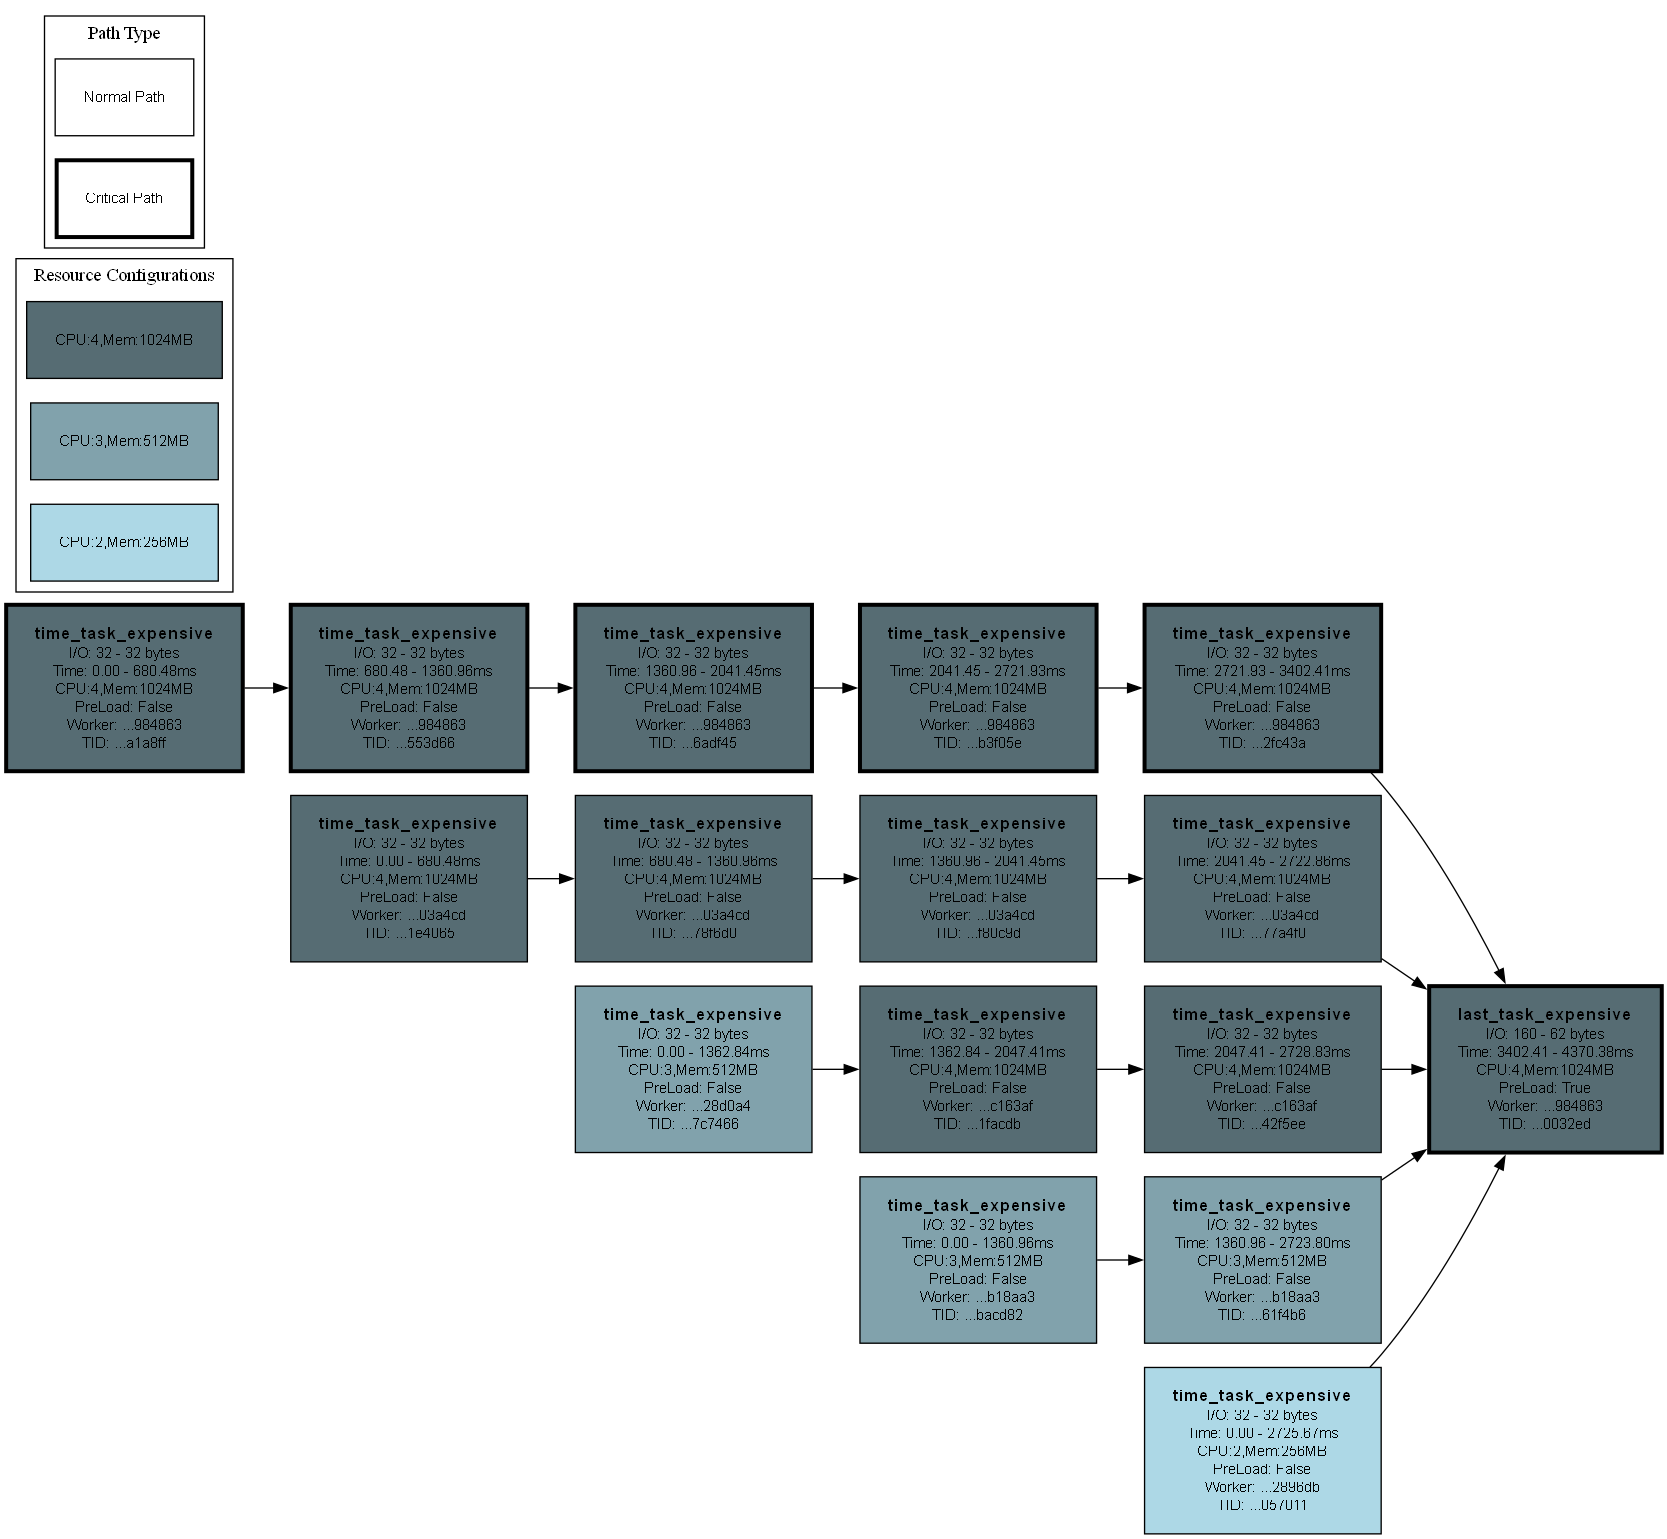
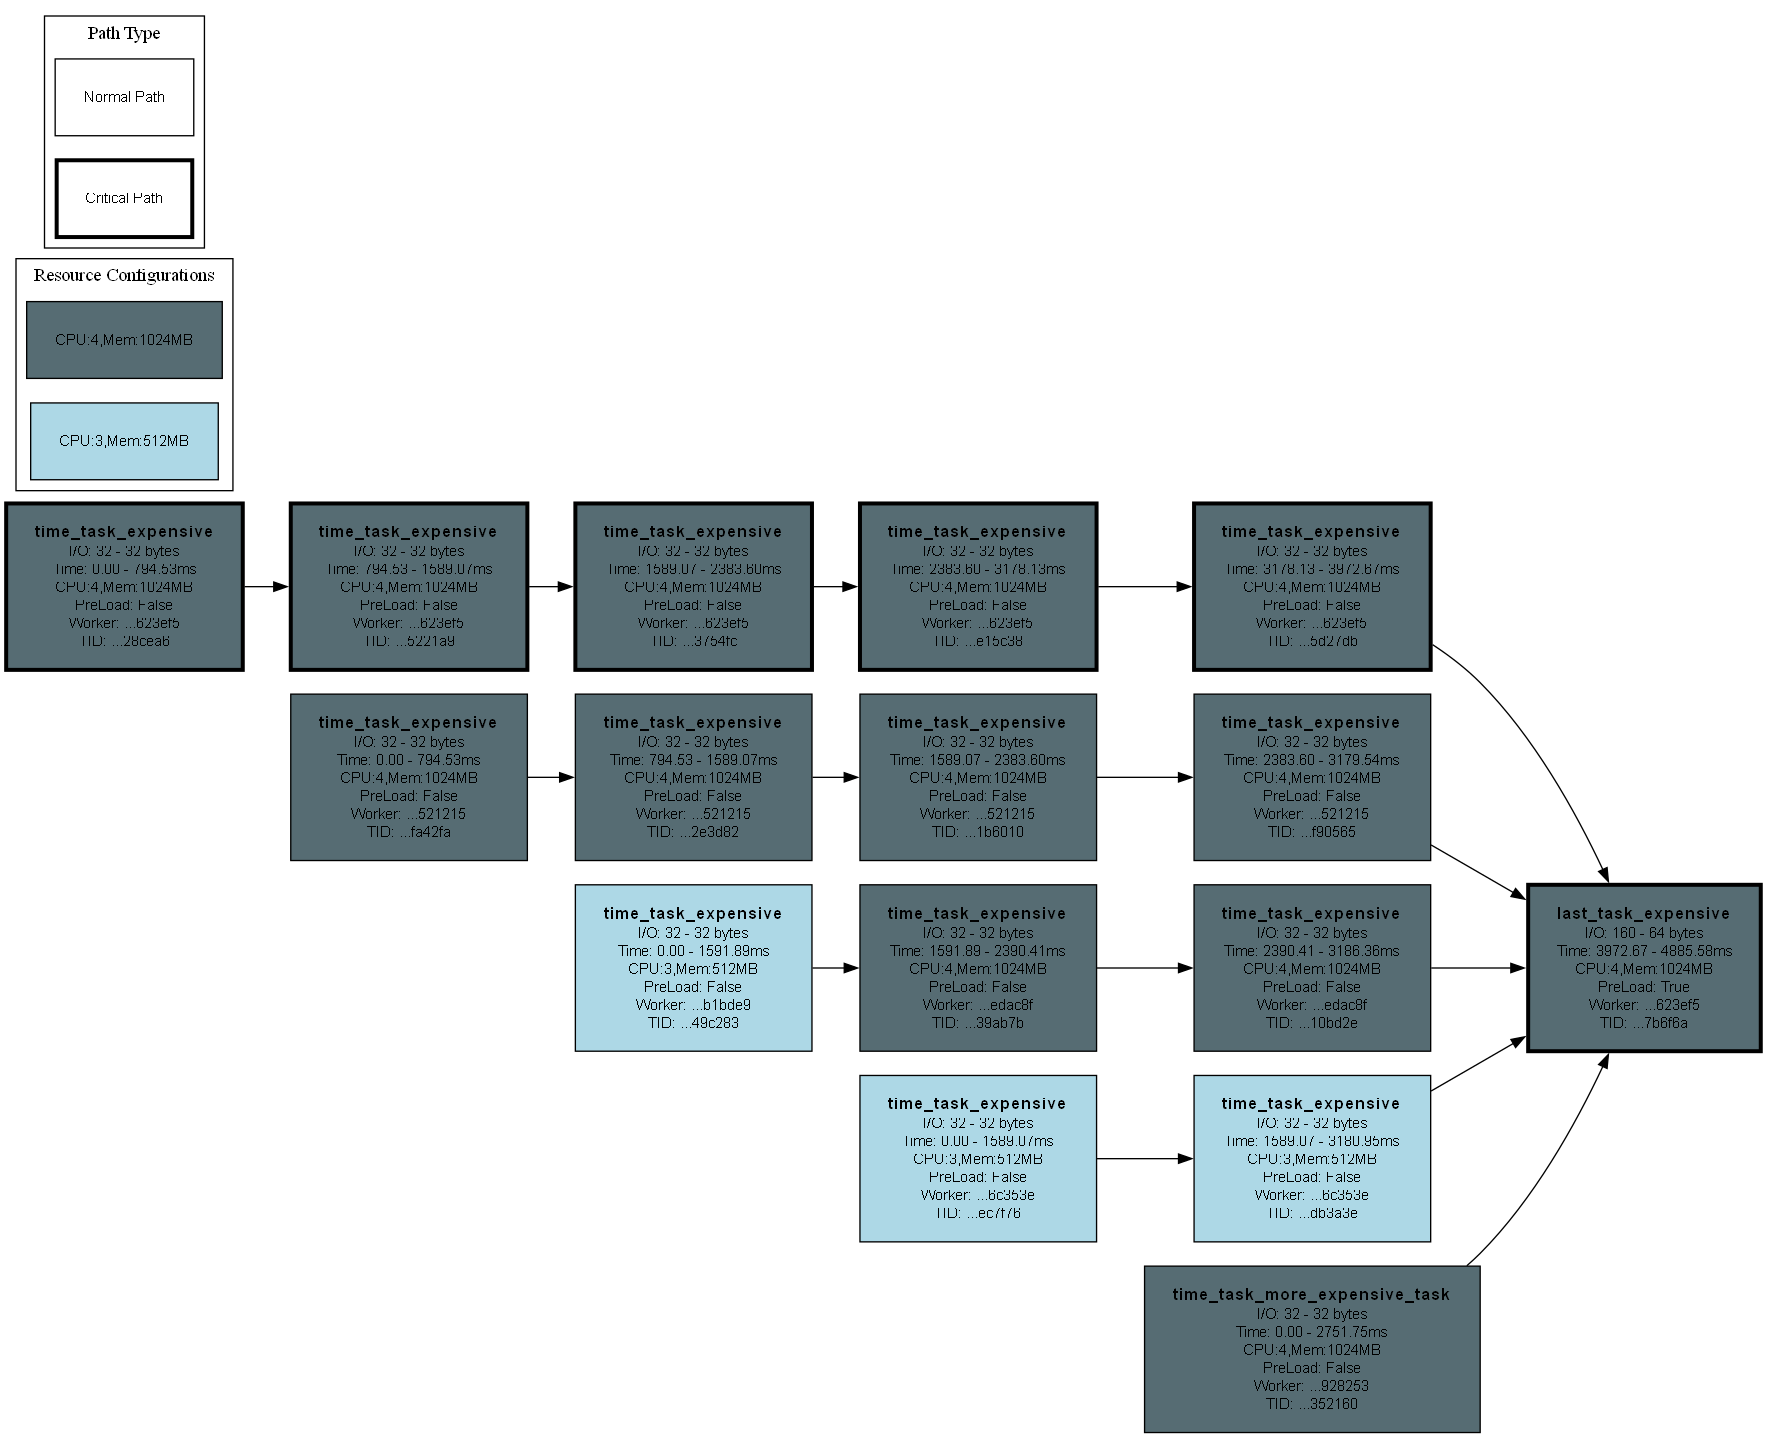
Now container logs are received by docker gateway in realtime. This way we can capture logs from containers that wait forever

Changed region(s): [[0.0, 0.0, 1.0, 1.0]]

diff --git a/src/docker_workers_gateway/container_pool_executor.py b/src/docker_workers_gateway/container_pool_executor.py
@@ -1,4 +1,5 @@
 from contextlib import contextmanager
+import os
 import sys
 import threading
 from dataclasses import dataclass
@@ -40,30 +41,85 @@ class ContainerPoolExecutor:
     def execute_command_in_container(self, container_id, command):
         """
         Executes a command in the specified container and returns the exit code.
-        Prints the exit code, stdout, and stderr of the command execution.
+        Streams stdout and stderr in real-time during execution, then prints the final exit code.
         """
         with self.lock:
             self.containers[container_id].last_active_time = time.time()
             self.containers[container_id].is_busy = True
         
-        logger.info(f"[{self._get_time_formatted()}] EXECUTING IN CONTAINER: {container_id} | command length: {len(command)}") 
+        logger.info(f"[{self._get_time_formatted()}] EXECUTING IN CONTAINER: {container_id} | command length: {len(command)}")
 
-        result = subprocess.run(
+        # Use Popen instead of run to get real-time output
+        process = subprocess.Popen(
             ["docker", "exec", "-i", container_id, "sh"],
-            input=command.encode(),
+            stdin=subprocess.PIPE,
             stdout=subprocess.PIPE,
             stderr=subprocess.PIPE,
+            bufsize=1,  # Line buffered
+            universal_newlines=False  # Keep as binary for consistent handling
         )
+        
+        # Send the command to stdin
+        if process.stdin:
+            process.stdin.write(command.encode())
+            process.stdin.close()
+        
+        # Set up non-blocking reading for stdout and stderr
+        if process.stdout: process.stdout.fileno()
+        if process.stderr: process.stderr.fileno()
+        
+        # Make stdout and stderr non-blocking
+        if process.stdout: os.set_blocking(process.stdout.fileno(), False)
+        if process.stderr: os.set_blocking(process.stderr.fileno(), False)
+        
+        # Read and print output streams while process is running
+        print("STDOUT (streaming):")
+        
+        exit_code = None
+        while exit_code is None:
+            # Read from stdout
+            if process.stdout:
+                stdout_data = process.stdout.read(4096)
+                if stdout_data:
+                    stdout_text = stdout_data.decode(errors='replace')
+                    print(stdout_text, end='', flush=True)
+            
+            # Read from stderr
+            if process.stderr:
+                stderr_data = process.stderr.read(4096)
+                if stderr_data:
+                    stderr_text = stderr_data.decode(errors='replace')
+                    logger.error(f"STDERR: {stderr_text}")
+            
+            # Check if process has finished
+            exit_code = process.poll()
+            if exit_code is None:
+                # Process still running, small sleep to avoid CPU spinning
+                time.sleep(0.1)
+        
+        # After process completion, read any remaining output
+        if process.stdout:
+            remaining_stdout = process.stdout.read()
+            if remaining_stdout:
+                print(remaining_stdout.decode(errors='replace'), end='', flush=True)
+        
+        if process.stderr:
+            remaining_stderr = process.stderr.read()
+            if remaining_stderr:
+                logger.error(f"STDERR: {remaining_stderr.decode(errors='replace')}")
+        
+        print(f"\nExit Code: {exit_code}")
+        
+        # Update container state
         with self.lock:
-            self.containers[container_id].is_busy = False
-        print(f"Exit Code: {result.returncode}")
-        print("STDOUT:")
-        print(result.stdout.decode().strip() if result.stdout else "(No output)")
-        if result.stderr:
-            logger.error("STDERR:")
-            logger.error(result.stderr.decode().strip())
-            sys.exit(0)
-        return result.returncode
+            if container_id in self.containers:
+                self.containers[container_id].is_busy = False
+        
+        # Keep the original behavior of exiting on stderr
+        if process.stderr and process.stderr.read():
+            sys.exit(0) # ! for easier debugging
+            
+        return exit_code
 
     def shutdown(self):
         logger.info("Shutting down container pool manager...")

diff --git a/src/docker_worker_handler/worker.py b/src/docker_worker_handler/worker.py
@@ -82,9 +82,11 @@ async def main():
         
         #* 1) Execute override_on_worker_ready
         on_worker_ready_overriden = get_method_overridden(wk.planner.__class__, WorkerExecutionLogic.override_on_worker_ready)
-        if on_worker_ready_overriden: 
+        if on_worker_ready_overriden:
+            logger.info(f"PLANNER.ON_WORKER_READY()")
             await on_worker_ready_overriden(wk.intermediate_storage, fulldag, this_worker_id)
-        else: 
+        else:
+            logger.info(f"WEL.ON_WORKER_READY()")
             await WorkerExecutionLogic.override_on_worker_ready(wk.intermediate_storage, fulldag, this_worker_id)
 
         #* 2) Subscribe to {TASK_READY} events for MY tasks*
@@ -122,13 +124,16 @@ async def main():
         remaining_tasks_for_this_worker = [task for task in tasks_that_depend_on_other_workers if not task.completed_event.is_set()]
         if len(remaining_tasks_for_this_worker) > 0:
             completion_events = [task.completed_event for task in remaining_tasks_for_this_worker]
-            logger.info(f"Worker: {this_worker_id} | Waiting for {[task.id.get_full_id() for task in remaining_tasks_for_this_worker]} to complete locally...")
+            logger.info(f"Worker({this_worker_id}) Waiting for {[task.id.get_full_id() for task in remaining_tasks_for_this_worker]} to complete locally...")
             await asyncio.wait([asyncio.create_task(event.wait()) for event in completion_events])
+            logger.info(f"Worker({this_worker_id}) DONE Waiting for {[task.id.get_full_id() for task in remaining_tasks_for_this_worker]} to complete locally")
 
         #* 5) Wait for remaining coroutines to finish. 
         # *     REASON: Just because the final result is ready doesn't mean all work is done (emitting READY events, etc...)
+        logger.info(f"Worker({this_worker_id}) Waiting for all coroutines...")
         pending = [t for t in asyncio.all_tasks() if t is not asyncio.current_task()]
         if pending: await asyncio.wait(pending, timeout=None)  # Wait indefinitely
+        logger.info(f"Worker({this_worker_id}) DONE Waiting for all coroutines!")
 
         #* 6) Upload metrics collected during task execution
         if wk.metrics_storage:

diff --git a/src/planning/simple_planner.py b/src/planning/simple_planner.py
@@ -171,7 +171,7 @@ class SimpleDAGPlanner(DAGPlanner, WorkerExecutionLogic):
             unique_worker_ids[resource_config.worker_id] += 1
 
         logger.info(f"CRITICAL PATH | Nodes: {len(critical_path_nodes)} | Predicted Completion Time: {critical_path_time} ms")
-        logger.info(f"Resource distribution after optimization: {resource_distribution}")
+        logger.info(f"Task Resource distribution after optimization: {resource_distribution}")
         logger.info(f"Number of unique workers: {len(unique_worker_ids)}")
         logger.info(f"Completed in {algorithm_start_time.stop():.3f} ms")
 
@@ -210,7 +210,7 @@ class SimpleDAGPlanner(DAGPlanner, WorkerExecutionLogic):
             visited_nodes.add(current_node.id.get_full_id())
             for downstream_node in current_node.downstream_nodes:
                 if downstream_node.id.get_full_id() not in visited_nodes: _nodes_to_visit.append(downstream_node)
-            # My Logic
+            # MY Logic
             if current_node.get_annotation(TaskWorkerResourceConfiguration).worker_id != this_worker_id: continue
             preload_annotation = current_node.try_get_annotation(PreLoad)
             if not preload_annotation: continue

diff --git a/_examples/original/dagforpredictions_expensive_computations.py b/_examples/original/dagforpredictions_expensive_computations.py
@@ -48,6 +48,15 @@ def time_task_expensive(dummy_data: int) -> int:
     return dummy_data + int(result[0, 0] % 100)  # Just use a small part of the result
 
 @DAGTask
+def time_task_more_expensive_task(dummy_data: int) -> int:
+    # memory-sensitive computation
+    size = 3500
+    a = np.random.rand(size, size)
+    b = np.random.rand(size, size)
+    result = np.matmul(a, b)
+    return dummy_data + int(result[0, 0] % 100)  # Just use a small part of the result
+
+@DAGTask
 def last_task_expensive(dummy_data_1: int, dummy_data_2: int, dummy_data_3: int, 
                        dummy_data_4: int, dummy_data_5: int) -> str:
     # memory-sensitive computation
@@ -82,7 +91,7 @@ b3_t3 = time_task_expensive(b3_t2)
 b4_t1 = time_task_expensive(40)
 b4_t2 = time_task_expensive(b4_t1)
 
-b5_t1 = time_task_expensive(50)
+b5_t1 = time_task_more_expensive_task(50)
 
 sink_task = last_task_expensive(b1_t5, b2_t4, b3_t3, b4_t2, b5_t1)
 # sink_task.visualize_dag(open_after=True)

diff --git a/src/docker_workers_gateway/handler.py b/src/docker_workers_gateway/handler.py
@@ -45,10 +45,7 @@ def process_job_async(resource_configuration: TaskWorkerResourceConfiguration, b
     container_id = container_pool.wait_for_container(cpus=resource_configuration.cpus, memory=resource_configuration.memory_mb)
     try:
         exit_code = container_pool.execute_command_in_container(container_id, command)
-        if exit_code == 0:
-            # print(f"[{get_time_formatted()}] {job_id}) COMPLETED in container: {container_id}")
-            return
-        else:
+        if exit_code != 0:
             logger.error(f"[{get_time_formatted()}] {job_id}) [ERROR] Container {container_id} should be available but exit_code={exit_code}")
     except Exception as e:
         logger.error(f"[{get_time_formatted()}] {job_id}) [ERROR] Exception: {e}")

diff --git a/src/workers/worker.py b/src/workers/worker.py
@@ -176,8 +176,6 @@ class Worker(ABC, WorkerExecutionLogic):
 
         # Cleanup
         self.log(current_task.id.get_full_id(), f"Worker shut down!")
-        if self.metrics_storage:
-            await self.metrics_storage.flush()
 
         # Wait for my other coroutines executing other tasks
         if len(other_coroutines_i_launched) > 0: await asyncio.gather(*other_coroutines_i_launched)

diff --git a/src/workers/docker_worker.py b/src/workers/docker_worker.py
@@ -1,3 +1,4 @@
+import asyncio
 import base64
 from dataclasses import dataclass
 from itertools import groupby

diff --git a/TODO.md b/TODO.md
@@ -1,12 +1,21 @@
-- [TEST]
-    - Add logs to see preloading in action
-        seeing if preloading was already ongoing, etc... (`simpleplanner.override_handle_inputs()`)
-        test pre-load for wordcount as well
-            see image
-            see logs
+- Find a way to flush logs from workers that block to stdout of the gateway as well
+
+- [2_BUGS]
+    - First worker doesn't flush logs
+    because => it finishes tasks but still waits for something in `main()`
+        Cause: waiting for ALL coroutines makes it wait forever
+
+- [BUG] Docker worker is calling execute command on same container while busy (test with wordcount)
 
 - [BUG] Some workers remain active after executing
     On `expensive` workflow, 6 workers are launched but only see 5 logs of Worker Started + it remains active
+
+    - [REQUIRES BUG FIX BECAUSE I CAN'T SEE THE LOGS TEST]
+        - Add logs to see preloading in action
+            seeing if preloading was already ongoing, etc... (`simpleplanner.override_handle_inputs()`)
+            test pre-load for wordcount as well
+                see plan image
+                see logs
 
 - RUN auto tests
 - RUN manual tests
